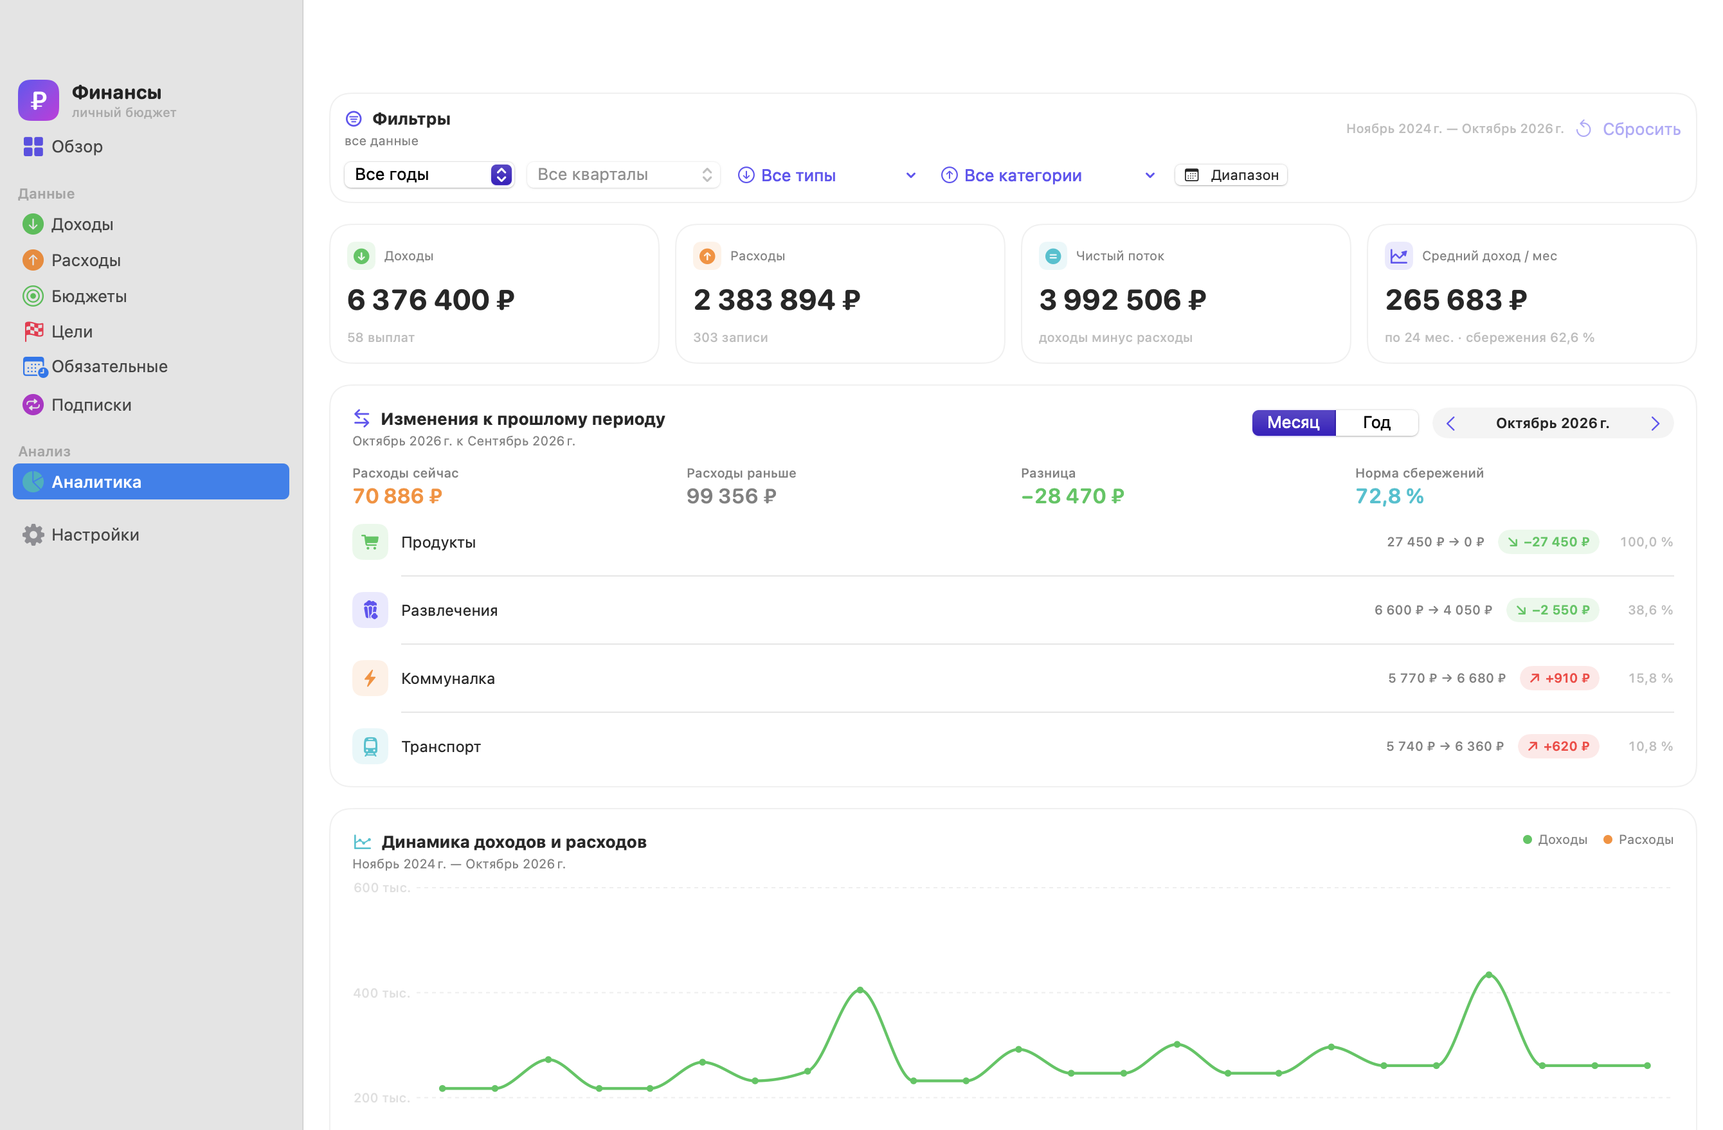
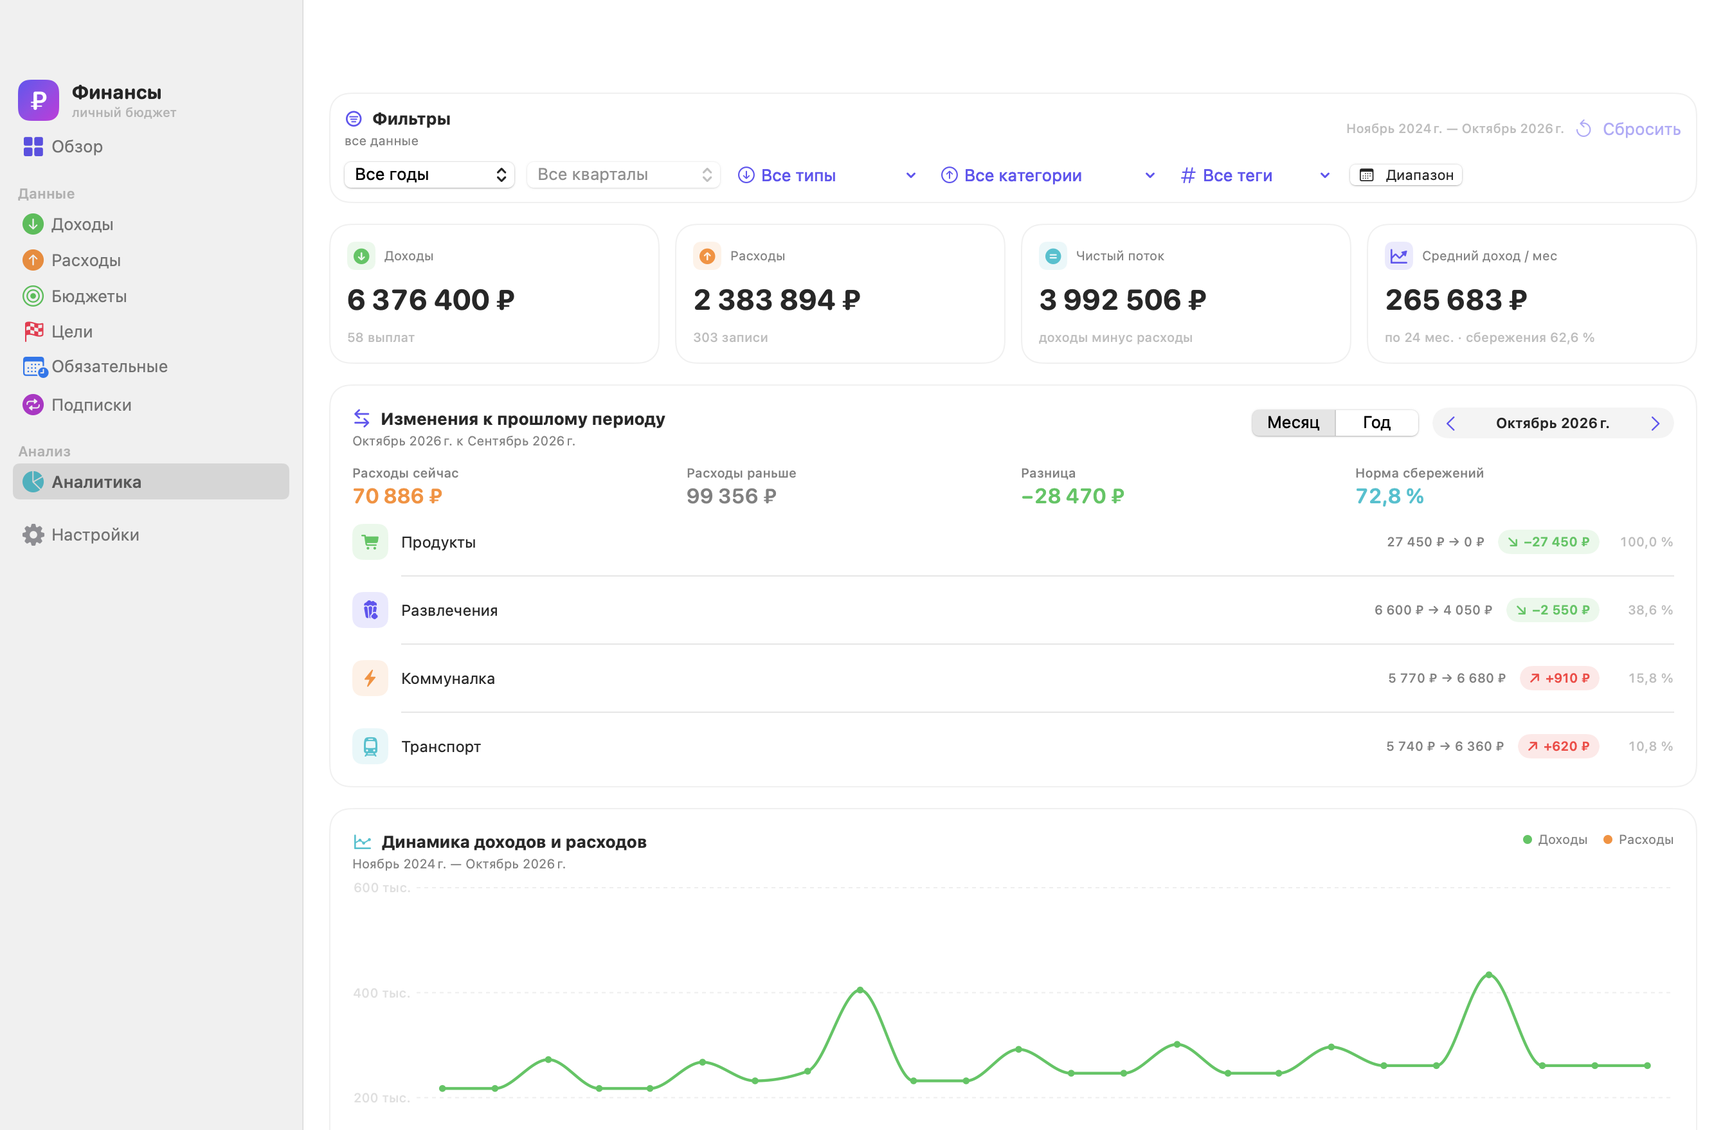
chore: release 1.4.0

diff --git a/Sources/FinancesUI/Views/Analytics/AnalyticsView.swift b/Sources/FinancesUI/Views/Analytics/AnalyticsView.swift
@@ -11,6 +11,7 @@ struct AnalyticsView: View {
     @State private var selectedQuarter: Int? = nil
     @State private var selectedTypes: Set<IncomeType> = []
     @State private var selectedCategories: Set<ExpenseCategory> = []
+    @State private var selectedTags: Set<String> = []
     @State private var search = ""
     @State private var comparisonMonth: Date = Date().startOfMonth
     @State private var comparisonMode: ComparisonMode = .month
@@ -43,6 +44,7 @@ struct AnalyticsView: View {
             || selectedQuarter != nil
             || !selectedTypes.isEmpty
             || !selectedCategories.isEmpty
+            || !selectedTags.isEmpty
             || !search.isEmpty
             || useCustomRange
     }
@@ -53,12 +55,13 @@ struct AnalyticsView: View {
             let matchesQuarter = useCustomRange || selectedQuarter == nil || entry.date.quarter == selectedQuarter
             let matchesRange = !useCustomRange || inRange(entry.date)
             let matchesType = selectedTypes.isEmpty || selectedTypes.contains(entry.type)
+            let matchesTags = TagParser.matches(entry.note, selected: selectedTags)
             let matchesSearch =
                 search.isEmpty
                 || entry.note.localizedCaseInsensitiveContains(search)
                 || entry.employer.localizedCaseInsensitiveContains(search)
                 || entry.type.title.localizedCaseInsensitiveContains(search)
-            return matchesYear && matchesQuarter && matchesRange && matchesType && matchesSearch
+            return matchesYear && matchesQuarter && matchesRange && matchesType && matchesTags && matchesSearch
         }
     }
 
@@ -68,11 +71,12 @@ struct AnalyticsView: View {
             let matchesQuarter = useCustomRange || selectedQuarter == nil || entry.date.quarter == selectedQuarter
             let matchesRange = !useCustomRange || inRange(entry.date)
             let matchesCategory = selectedCategories.isEmpty || selectedCategories.contains(entry.category)
+            let matchesTags = TagParser.matches(entry.note, selected: selectedTags)
             let matchesSearch =
                 search.isEmpty
                 || entry.note.localizedCaseInsensitiveContains(search)
                 || entry.category.title.localizedCaseInsensitiveContains(search)
-            return matchesYear && matchesQuarter && matchesRange && matchesCategory && matchesSearch
+            return matchesYear && matchesQuarter && matchesRange && matchesCategory && matchesTags && matchesSearch
         }
     }
 
@@ -147,6 +151,10 @@ struct AnalyticsView: View {
             changes: Array(comparisonChanges.prefix(5)),
             generatedAt: Date()
         )
+    }
+
+    private var availableTags: [TagCount] {
+        TagParser.counts(incomes: incomes, expenses: expenses)
     }
 
     private var comparisonChanges: [CategoryChange] {
@@ -443,6 +451,37 @@ struct AnalyticsView: View {
                     .frame(width: 176)
                     .help("Фильтр по категориям расходов")
 
+                    Menu {
+                        Button("Все теги") { selectedTags.removeAll() }
+                        Divider()
+                        ForEach(availableTags) { tag in
+                            Toggle(
+                                isOn: Binding(
+                                    get: { selectedTags.contains(tag.tag) },
+                                    set: { isOn in
+                                        if isOn {
+                                            selectedTags.insert(tag.tag)
+                                        } else {
+                                            selectedTags.remove(tag.tag)
+                                        }
+                                    }
+                                )
+                            ) {
+                                Text("#\(tag.tag) · \(tag.count)")
+                            }
+                        }
+                    } label: {
+                        Label(
+                            selectedTags.isEmpty
+                                ? "Все теги" : "Теги: \(selectedTags.count)",
+                            systemImage: "number"
+                        )
+                    }
+                    .menuStyle(.borderlessButton)
+                    .frame(width: 126)
+                    .help("Фильтр по #тегам в заметках")
+                    .disabled(availableTags.isEmpty)
+
                     Button {
                         showRangePicker = true
                     } label: {
@@ -507,6 +546,7 @@ struct AnalyticsView: View {
         selectedQuarter = nil
         selectedTypes.removeAll()
         selectedCategories.removeAll()
+        selectedTags.removeAll()
         search = ""
         useCustomRange = false
     }

diff --git a/Sources/FinancesCore/Core/DemoData.swift b/Sources/FinancesCore/Core/DemoData.swift
@@ -134,7 +134,7 @@ package enum DemoData {
                         date: salaryDate,
                         type: .salary,
                         employer: employer,
-                        note: "Оклад за \(MonthFormat.monthTitle(month).lowercased())"
+                        note: "Оклад за \(MonthFormat.monthTitle(month).lowercased()) #работа"
                     ))
             }
 
@@ -146,7 +146,7 @@ package enum DemoData {
                         date: advanceDate,
                         type: .advance,
                         employer: employer,
-                        note: "Аванс за \(MonthFormat.monthTitle(month).lowercased())"
+                        note: "Аванс за \(MonthFormat.monthTitle(month).lowercased()) #работа"
                     ))
             }
 
@@ -204,7 +204,7 @@ package enum DemoData {
                         amount: rent.payableAmount,
                         date: rentDate,
                         category: .rent,
-                        note: "Аренда квартиры"
+                        note: "Аренда квартиры #дом"
                     ))
             }
 
@@ -267,7 +267,7 @@ package enum DemoData {
                         amount: 24_000 + Double((index * 3) % 7) * 1_150,
                         date: foodDate,
                         category: .food,
-                        note: "Продукты"
+                        note: "Продукты #быт"
                     ))
             }
 
@@ -278,7 +278,7 @@ package enum DemoData {
                         amount: 4_500 + Double((index * 5) % 4) * 620,
                         date: transportDate,
                         category: .transport,
-                        note: "Транспорт и такси"
+                        note: "Транспорт и такси #город"
                     ))
             }
 
@@ -289,7 +289,7 @@ package enum DemoData {
                         amount: 3_200 + Double((index * 2) % 5) * 850,
                         date: funDate,
                         category: .entertainment,
-                        note: "Кино, кафе, досуг"
+                        note: "Кино, кафе, досуг #отдых"
                     ))
             }
 

diff --git a/Sources/FinancesCore/Core/TagParser.swift b/Sources/FinancesCore/Core/TagParser.swift
@@ -1,0 +1,52 @@
+import Foundation
+
+// MARK: - Теги в заметках
+
+package struct TagCount: Identifiable, Hashable {
+    package let tag: String
+    package let count: Int
+
+    package var id: String { tag }
+}
+
+package enum TagParser {
+    /// Извлекает #теги из заметки. Поддерживает кириллицу, цифры, `_` и `-`.
+    package static func tags(in text: String) -> Set<String> {
+        var result: Set<String> = []
+        for token in text.split(whereSeparator: \.isWhitespace) {
+            guard token.first == "#" else { continue }
+            var tag = ""
+            for character in token.dropFirst() {
+                if character.isLetter || character.isNumber || character == "_" || character == "-" {
+                    tag.append(character)
+                } else {
+                    break
+                }
+            }
+            if !tag.isEmpty {
+                result.insert(tag.lowercased())
+            }
+        }
+        return result
+    }
+
+    package static func counts(incomes: [IncomeEntry], expenses: [ExpenseEntry]) -> [TagCount] {
+        var counts: [String: Int] = [:]
+        for note in incomes.map(\.note) + expenses.map(\.note) {
+            for tag in tags(in: note) {
+                counts[tag, default: 0] += 1
+            }
+        }
+        return counts
+            .map { TagCount(tag: $0.key, count: $0.value) }
+            .sorted {
+                $0.count == $1.count
+                    ? $0.tag.localizedCaseInsensitiveCompare($1.tag) == .orderedAscending
+                    : $0.count > $1.count
+            }
+    }
+
+    package static func matches(_ note: String, selected: Set<String>) -> Bool {
+        selected.isEmpty || !tags(in: note).isDisjoint(with: selected)
+    }
+}

diff --git a/docs/roadmap.html b/docs/roadmap.html
@@ -159,8 +159,8 @@
 
           <article class="timeline-item">
             <div class="timeline-meta">
-              <span class="badge badge-now">в работе</span>
-              <span>сравнение периодов</span>
+              <span class="badge badge-now">готово</span>
+              <span>релиз 1.4.0</span>
             </div>
             <h2>v1.4 — Аналитика 2.0</h2>
             <p>Графики становятся инструментом решений.</p>
@@ -168,7 +168,7 @@
               <li>Сравнение месяц/год и топ изменений — готово</li>
               <li>Произвольный диапазон дат — готово</li>
               <li>PDF-отчёт и печать — готово</li>
-              <li>Настройка дашборда — готово; теги и поиск дальше</li>
+              <li>Настройка дашборда и теги — готово</li>
             </ul>
           </article>
 
@@ -240,7 +240,7 @@
 
           <article class="debt">
             <div class="debt-head"><h3>Нет UI-тестов</h3><span class="pill">P1 · M</span></div>
-            <p>Есть 98 тестов и snapshot-раннер, но критические сценарии не проверяются XCUITest.</p>
+            <p>Есть 99 тестов и snapshot-раннер, но критические сценарии не проверяются XCUITest.</p>
           </article>
 
           <article class="debt">

diff --git a/Tests/FinancesCoreTests/TagParserTests.swift b/Tests/FinancesCoreTests/TagParserTests.swift
@@ -1,0 +1,33 @@
+import XCTest
+@testable import FinancesCore
+
+final class TagParserTests: XCTestCase {
+    func testExtractsTags() {
+        XCTAssertEqual(
+            TagParser.tags(in: "Отпуск #лето #Море #лето"),
+            ["лето", "море"]
+        )
+        XCTAssertEqual(
+            TagParser.tags(in: "Покупка #дом_и_сад, #ремонт-2026!"),
+            ["дом_и_сад", "ремонт-2026"]
+        )
+        XCTAssertTrue(TagParser.tags(in: "без тегов").isEmpty)
+        XCTAssertTrue(TagParser.tags(in: "#").isEmpty)
+    }
+
+    func testCountsAndMatching() {
+        let incomes = [
+            IncomeEntry(amount: 100, note: "#работа"),
+            IncomeEntry(amount: 200, note: "#работа #отпуск"),
+        ]
+        let expenses = [
+            ExpenseEntry(amount: 50, note: "#отпуск"),
+        ]
+        let counts = TagParser.counts(incomes: incomes, expenses: expenses)
+        XCTAssertEqual(counts.first?.tag, "отпуск")
+        XCTAssertEqual(counts.first?.count, 2)
+        XCTAssertTrue(TagParser.matches("#работа", selected: ["работа"]))
+        XCTAssertFalse(TagParser.matches("#работа", selected: ["отпуск"]))
+        XCTAssertTrue(TagParser.matches("", selected: []))
+    }
+}

diff --git a/ROADMAP.md b/ROADMAP.md
@@ -27,7 +27,7 @@
 - Подписки с месячной/годовой нагрузкой и ближайшими списаниями.
 - Аналитика: динамика, два бублика, средние по типам, итоги по годам и кварталам, фильтры.
 - Демо-данные за 24 месяца, CSV-экспорт и импорт, JSON-бэкап, автобэкапы.
-- 98 тестов, CI, Pages, wiki и release-пайплайн.
+- 99 тестов, CI, Pages, wiki и release-пайплайн.
 - `FinancesSchemaV2`, миграция V1 → V2 и экран восстановления store.
 - Локальное хранение, светлая/тёмная темы, адаптивность.
 
@@ -61,7 +61,7 @@
 | **v1.1** | Данные и доверие | Бэкап/восстановление, импорт CSV, миграции, копейки | 2–6 | ✅ готово |
 | **v1.2** | Планирование | Бюджеты, прогноз, цели, уведомления и свои категории | 6–10 | ✅ 1.2.0 |
 | **v1.3** | Движок регулярных платежей | Статусы, паузы, история цен, календарь платежей | 10–15 | ✅ 1.3.0 |
-| **v1.4** | Аналитика 2.0 | Сравнение периодов, произвольные диапазоны, PDF | 15–18 | 🚧 в работе |
+| **v1.4** | Аналитика 2.0 | Сравнение периодов, диапазоны, PDF, теги | 15–18 | ✅ 1.4.0 |
 | **v1.5** | Автоматизация | Импорт выписок, Shortcuts, menu bar, напоминания | 18–22 | план |
 | **v2.0** | Синхронизация и экосистема | iCloud, iOS, мультивалютность, локализация | 22–34 | план |
 
@@ -187,9 +187,9 @@
 - Перенос платежа на выходной/будний день настраивается.
 - История сумм видна в карточке и в аналитике.
 
-### v1.4 — Аналитика 2.0 (15–18 недель) 🚧
+### v1.4 — Аналитика 2.0 (15–18 недель) ✅
 
-**Статус:** сравнение месяц/год, топ изменений, диапазон дат, PDF-отчёт, печать и настройка дашборда готовы (98 тестов). Остались теги и кэш.
+**Статус:** релиз 1.4.0. Сравнение месяц/год, диапазон, PDF, печать, настройка дашборда и теги готовы (99 тестов). Кэш агрегатов и расширенные accessibility-описания вынесены в техдолг v1.5.
 
 **Цель:** превратить графики в инструмент решений, а не только в красивую сводку.
 

diff --git a/README.md b/README.md
@@ -89,6 +89,7 @@
 - Произвольный диапазон дат для графиков и итогов.
 - PDF-отчёт по текущим фильтрам с KPI, категориями, динамикой и изменениями.
 - Настройка карточек обзора: прогноз, графики, платежи, подписки и бюджеты.
+- Теги через `#хэштеги` в заметках и фильтр по ним.
 - Фильтры по году, кварталу, типам выплат и категориям расходов, поиск по операциям.
 - KPI: доходы, расходы, чистый поток и средний доход в месяц.
 - Динамика доходов и расходов по месяцам.
@@ -109,7 +110,7 @@
 - Импорт CSV с автоматическим распознаванием колонок и предпросмотром.
 - Полная очистка данных с подтверждением.
 - Светлая и тёмная темы, русская локализация, суммы в рублях.
-- 98 тестов и CI на GitHub Actions.
+- 99 тестов и CI на GitHub Actions.
 
 ## Скриншоты
 
@@ -229,7 +230,7 @@ Sources/
     Views/            экраны, бюджеты, цели, категории, общие компоненты
   FinancesApp/        тонкий composition root
 Tests/
-  FinancesCoreTests/  98 тестов
+  FinancesCoreTests/  99 тестов
 Scripts/
   package_app.sh      сборка .app
   lint.sh             swift-format
@@ -263,7 +264,7 @@ Screenshots/          скриншоты для документации
 Ближайшие направления:
 
 - бюджеты и прогноз;
-- 1.3.0 выпущен; в v1.4 начато сравнение периодов и топ изменений; дальше произвольные диапазоны, PDF и теги;
+- 1.4.0 выпущен: сравнение периодов, диапазоны, PDF, печать, дашборд и теги; дальше v1.5;
 - статусы регулярных платежей и календарь;
 - сравнение периодов, PDF-отчёты;
 - iCloud-синхронизация (после стабилизации миграций).

diff --git a/CHANGELOG.md b/CHANGELOG.md
@@ -2,7 +2,7 @@
 
 Все заметные изменения проекта. Формат — [Keep a Changelog](https://keepachangelog.com/ru/1.1.0/), версии — [SemVer](https://semver.org/lang/ru/).
 
-## [Unreleased] — v1.4
+## [1.4.0] — 2026-10-23
 
 ### Добавлено
 
@@ -10,8 +10,9 @@
 - Произвольный диапазон дат в аналитике.
 - PDF-отчёт и печать по текущим фильтрам.
 - Настройка отображаемых карточек дашборда.
+- Теги через #хэштеги в заметках и фильтр по тегам.
 - Карточка «Изменения к прошлому периоду» с топом роста и падения.
-- 98 тестов.
+- 99 тестов.
 
 ## [1.3.0] — 2026-10-23
 
